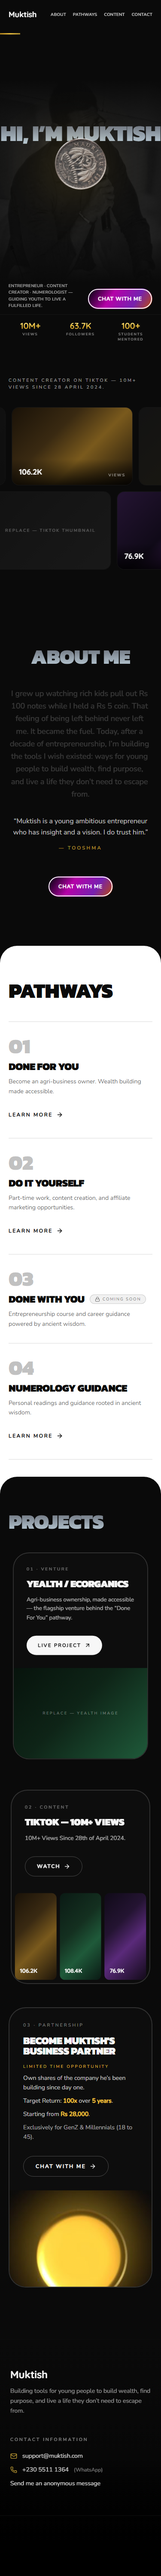
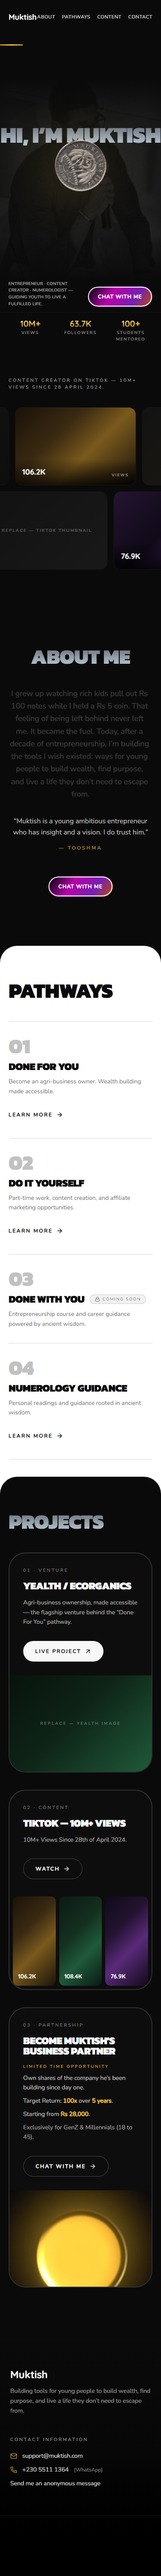
Review cycle 1 fixes: magnet rewrite, char-index purity, mobile scale, a11y, perf
- Magnet: useSyncExternalStore pointer probe, rAF-throttled direct DOM writes,
  no per-event React state (fixes lint + perf); ref snapshot in cleanup
- About: pure word-start derivation (React Compiler lint)
- Projects: depth scale via static md: classes (no more 94% card on mobile)
- Hero: nav 11px + py-3 tap areas, stat labels 9.6px, fetchPriority on LCP imgs
- Marquee: layout metrics cached, remeasured on resize only
- ContactButton: dead focus-visible:outline-none removed, gold focus ring

diff --git a/components/redesign/magnet.tsx b/components/redesign/magnet.tsx
@@ -3,10 +3,27 @@
 import {
   useEffect,
   useRef,
-  useState,
+  useSyncExternalStore,
   type ReactNode,
 } from "react";
 import { useReducedMotionSafe as useReducedMotion } from "@/lib/use-reduced-motion-safe";
+
+const FINE_QUERY = "(hover: hover) and (pointer: fine)";
+
+function subscribeFine(callback: () => void) {
+  const mql = window.matchMedia(FINE_QUERY);
+  mql.addEventListener("change", callback);
+  return () => mql.removeEventListener("change", callback);
+}
+
+/** Hydration-safe "desktop pointer" probe (server snapshot: false). */
+function useFinePointer(): boolean {
+  return useSyncExternalStore(
+    subscribeFine,
+    () => window.matchMedia(FINE_QUERY).matches,
+    () => false,
+  );
+}
 
 type MagnetProps = {
   children: ReactNode;
@@ -22,7 +39,11 @@ type MagnetProps = {
  * the inner wrapper translates toward the cursor by distance/strength with a
  * quick ease-out; when the cursor leaves it springs back with a longer
  * ease-in-out. Desktop-pointer only — on touch devices (or reduced motion)
- * it renders a gentle idle float instead. Transform-only, willChange hinted.
+ * it renders a gentle idle float instead.
+ *
+ * Perf: mousemove only schedules a rAF; the frame callback does one
+ * getBoundingClientRect and writes transform straight to the DOM node —
+ * zero React re-renders while tracking.
  */
 export function Magnet({
   children,
@@ -31,47 +52,62 @@ export function Magnet({
   className,
 }: MagnetProps) {
   const reduced = useReducedMotion();
+  const fine = useFinePointer();
   const hostRef = useRef<HTMLDivElement | null>(null);
-  const [offset, setOffset] = useState({ x: 0, y: 0 });
-  const [active, setActive] = useState(false);
-  const [fine, setFine] = useState(false);
-
-  useEffect(() => {
-    setFine(window.matchMedia("(hover: hover) and (pointer: fine)").matches);
-  }, []);
+  const innerRef = useRef<HTMLDivElement | null>(null);
 
   const enabled = fine && !reduced;
 
   useEffect(() => {
     if (!enabled) return;
 
-    const onMove = (e: MouseEvent) => {
-      const el = hostRef.current;
-      if (!el) return;
-      const r = el.getBoundingClientRect();
+    let raf = 0;
+    let lastX = 0;
+    let lastY = 0;
+    let active = false;
+
+    const frame = () => {
+      raf = 0;
+      const host = hostRef.current;
+      const inner = innerRef.current;
+      if (!host || !inner) return;
+      const r = host.getBoundingClientRect();
       const inZone =
-        e.clientX > r.left - padding &&
-        e.clientX < r.right + padding &&
-        e.clientY > r.top - padding &&
-        e.clientY < r.bottom + padding;
+        lastX > r.left - padding &&
+        lastX < r.right + padding &&
+        lastY > r.top - padding &&
+        lastY < r.bottom + padding;
 
       if (inZone) {
         const cx = r.left + r.width / 2;
         const cy = r.top + r.height / 2;
-        setOffset({
-          x: (e.clientX - cx) / strength,
-          y: (e.clientY - cy) / strength,
-        });
-        setActive(true);
+        inner.style.transition = "transform 0.3s ease-out";
+        inner.style.transform = `translate3d(${(lastX - cx) / strength}px, ${(lastY - cy) / strength}px, 0)`;
+        active = true;
       } else if (active) {
-        setOffset({ x: 0, y: 0 });
-        setActive(false);
+        active = false;
+        inner.style.transition = "transform 0.6s ease-in-out";
+        inner.style.transform = "translate3d(0, 0, 0)";
       }
     };
 
+    const onMove = (e: MouseEvent) => {
+      lastX = e.clientX;
+      lastY = e.clientY;
+      if (!raf) raf = requestAnimationFrame(frame);
+    };
+
+    // Snapshot the node for cleanup — the ref may change before cleanup runs.
+    const innerAtSetup = innerRef.current;
     window.addEventListener("mousemove", onMove, { passive: true });
-    return () => window.removeEventListener("mousemove", onMove);
-  }, [enabled, padding, strength, active]);
+    return () => {
+      window.removeEventListener("mousemove", onMove);
+      if (raf) cancelAnimationFrame(raf);
+      if (innerAtSetup) {
+        innerAtSetup.style.transform = "translate3d(0, 0, 0)";
+      }
+    };
+  }, [enabled, padding, strength]);
 
   if (!enabled) {
     // Touch / reduced-motion: gentle idle float (pure CSS, transform-only).
@@ -85,15 +121,7 @@ export function Magnet({
 
   return (
     <div ref={hostRef} className={className}>
-      <div
-        style={{
-          transform: `translate3d(${offset.x}px, ${offset.y}px, 0)`,
-          transition: active
-            ? "transform 0.3s ease-out"
-            : "transform 0.6s ease-in-out",
-          willChange: "transform",
-        }}
-      >
+      <div ref={innerRef} style={{ willChange: "transform" }}>
         {children}
       </div>
     </div>

diff --git a/components/redesign/about.tsx b/components/redesign/about.tsx
@@ -65,9 +65,18 @@ function CharacterReveal({ text }: { text: string }) {
     );
   }
 
-  const words = text.split(" ");
   const total = text.length;
-  let charIndex = 0;
+  // Pure derivation of each word's absolute start index (word starts include
+  // the +1 for the space that follows the previous word).
+  const words = text.split(" ").reduce<{ word: string; start: number }[]>(
+    (acc, word) => {
+      const prev = acc[acc.length - 1];
+      const start = prev ? prev.start + prev.word.length + 1 : 0;
+      acc.push({ word, start });
+      return acc;
+    },
+    [],
+  );
 
   return (
     <p
@@ -78,26 +87,22 @@ function CharacterReveal({ text }: { text: string }) {
       <span className="invisible">{text}</span>
       {/* Animated copy — absolutely stacked over the placeholder. */}
       <span className="absolute inset-0 text-ink" aria-hidden>
-        {words.map((word, wi) => {
-          const start = charIndex;
-          charIndex += word.length + 1; // +1 for the following space
-          return (
-            <span key={wi} className="inline-block whitespace-pre">
-              {word.split("").map((c, ci) => {
-                const abs = start + ci;
-                return (
-                  <Char
-                    key={ci}
-                    char={c}
-                    progress={scrollYProgress}
-                    range={[abs / total, Math.min(1, (abs + 1) / total)]}
-                  />
-                );
-              })}
-              {wi < words.length - 1 ? " " : ""}
-            </span>
-          );
-        })}
+        {words.map(({ word, start }, wi) => (
+          <span key={wi} className="inline-block whitespace-pre">
+            {word.split("").map((c, ci) => {
+              const abs = start + ci;
+              return (
+                <Char
+                  key={ci}
+                  char={c}
+                  progress={scrollYProgress}
+                  range={[abs / total, Math.min(1, (abs + 1) / total)]}
+                />
+              );
+            })}
+            {wi < words.length - 1 ? " " : ""}
+          </span>
+        ))}
       </span>
     </p>
   );

diff --git a/components/redesign/marquee.tsx b/components/redesign/marquee.tsx
@@ -109,14 +109,24 @@ export function Marquee() {
     if (!section || !r1 || !r2) return;
 
     let raf = 0;
+    // Layout metrics are cached and refreshed only on resize, so the scroll
+    // frame is write-only (no forced layout per frame).
+    let sectionTop = 0;
+    let vh = 0;
+    let w1 = 0;
+    let w2 = 0;
+
+    const measure = () => {
+      sectionTop = section.offsetTop;
+      vh = window.innerHeight;
+      w1 = r1.scrollWidth / 3;
+      w2 = r2.scrollWidth / 3;
+    };
+
     const update = () => {
       raf = 0;
-      const sectionTop = section.offsetTop;
-      const offset =
-        (window.scrollY - sectionTop + window.innerHeight) * 0.3;
-
-      const w1 = r1.scrollWidth / 3;
-      const w2 = r2.scrollWidth / 3;
+      if (!w1 || !w2) return;
+      const offset = (window.scrollY - sectionTop + vh) * 0.3;
       // Wrap into [-setWidth, 0) so the tripled strip always covers the view.
       const x1 = -w1 + (((offset % w1) + w1) % w1); // drifts right
       const x2 = -(((offset % w2) + w2) % w2); // drifts left
@@ -127,13 +137,18 @@ export function Marquee() {
     const onScroll = () => {
       if (!raf) raf = requestAnimationFrame(update);
     };
+    const onResize = () => {
+      measure();
+      onScroll();
+    };
 
+    measure();
     update();
     window.addEventListener("scroll", onScroll, { passive: true });
-    window.addEventListener("resize", onScroll, { passive: true });
+    window.addEventListener("resize", onResize, { passive: true });
     return () => {
       window.removeEventListener("scroll", onScroll);
-      window.removeEventListener("resize", onScroll);
+      window.removeEventListener("resize", onResize);
       if (raf) cancelAnimationFrame(raf);
     };
   }, [reduced]);

diff --git a/components/redesign/hero.tsx b/components/redesign/hero.tsx
@@ -44,7 +44,7 @@ export function RedesignHero() {
               <a
                 key={l.label}
                 href={l.href}
-                className="text-[0.6rem] uppercase tracking-wider text-ink/90 transition-opacity hover:opacity-70 sm:text-xs"
+                className="py-3 text-[0.7rem] uppercase tracking-wider text-ink/90 transition-opacity hover:opacity-70 sm:text-xs"
               >
                 {l.label}
               </a>
@@ -67,6 +67,7 @@ export function RedesignHero() {
             <img
               src={FOUNDER_IMG}
               alt=""
+              fetchPriority="high"
               className="h-full w-auto max-w-none object-contain opacity-25"
               style={{ filter: "grayscale(1) brightness(0.55) contrast(1.1)" }}
             />
@@ -96,6 +97,7 @@ export function RedesignHero() {
             <img
               src={COIN_IMG}
               alt="Mauritius Rs 5 coin"
+              fetchPriority="high"
               className="coin-turn w-[clamp(120px,20vw,260px)] drop-shadow-[0_20px_60px_rgba(245,200,66,0.25)]"
             />
           </Magnet>
@@ -130,7 +132,7 @@ export function RedesignHero() {
                   duration={1.8}
                 />
               </span>
-              <span className="text-[0.5rem] uppercase tracking-[0.25em] text-ink/55 sm:text-[0.65rem]">
+              <span className="text-[0.6rem] uppercase tracking-[0.2em] text-ink/55 sm:text-[0.65rem]">
                 {s.label}
               </span>
             </div>

diff --git a/components/redesign/projects.tsx b/components/redesign/projects.tsx
@@ -145,7 +145,9 @@ const projects: Project[] = [
   },
 ];
 
-const TOTAL = projects.length;
+// Static per-index depth classes so Tailwind can compile them (scale =
+// 1-(TOTAL-1-i)*0.03) — applied only at md+, where the sticky stack exists.
+const STACK_SCALE = ["md:scale-[0.94]", "md:scale-[0.97]", "md:scale-100"];
 
 /**
  * Sticky-stacking project cards: each card sticks below the one before it
@@ -166,12 +168,8 @@ export function Projects() {
           {projects.map((p, i) => (
             <div key={p.number} className="h-auto md:h-[85vh]">
               <div
-                className="md:sticky"
-                style={{
-                  top: `calc(6rem + ${i * 28}px)`,
-                  transform: `scale(${1 - (TOTAL - 1 - i) * 0.03})`,
-                  transformOrigin: "center top",
-                }}
+                className={`origin-top md:sticky ${STACK_SCALE[i] ?? "md:scale-100"}`}
+                style={{ top: `calc(6rem + ${i * 28}px)` }}
               >
                 <div className="mb-10 flex flex-col overflow-hidden rounded-[40px] border-2 border-white/15 bg-[#0d0d0d] sm:rounded-[50px] md:mb-0 md:h-[70vh] md:flex-row md:rounded-[60px]">
                   {/* Copy column */}

diff --git a/components/redesign/contact-button.tsx b/components/redesign/contact-button.tsx
@@ -18,7 +18,7 @@ export function ContactButton({
   return (
     <a
       href={href}
-      className={`inline-flex h-12 min-h-[44px] items-center justify-center whitespace-nowrap rounded-full px-6 text-xs font-semibold uppercase tracking-widest text-white transition-transform duration-200 ease-out hover:scale-[1.04] active:scale-[0.98] focus-visible:outline-none focus-visible:ring-2 focus-visible:ring-white/80 sm:px-8 ${className}`}
+      className={`inline-flex h-12 min-h-[44px] items-center justify-center whitespace-nowrap rounded-full px-6 text-xs font-semibold uppercase tracking-widest text-white transition-transform duration-200 ease-out hover:scale-[1.04] active:scale-[0.98] focus-visible:ring-4 focus-visible:ring-gold/80 sm:px-8 ${className}`}
       style={{
         background:
           "linear-gradient(123deg, #18011F 7%, #B600A8 37%, #7621B0 72%, #BE4C00 100%)",

diff --git a/BUILD-REPORT.md b/BUILD-REPORT.md
@@ -1,0 +1,61 @@
+# BUILD-REPORT — redesign-motion (overnight autonomous run, 2026-07-02)
+
+Branch: `redesign-motion` (from `main`). No pushes, no deploys, `main` untouched, nothing under `public/` modified or deleted.
+
+## What was built
+
+Landing page rebuilt with the premium-portfolio motion language. Page order: **Hero → Marquee → About → Pathways → Projects → Footer** (built in priority order Hero, Pathways, Projects, Marquee, About, Footer — one green `npm run build` + commit per section).
+
+| Section | File | Motion |
+|---|---|---|
+| Hero | `components/redesign/hero.tsx` | FadeIn sequence (nav 0 / h1 0.15 / tagline 0.35 / CTA 0.5 / magnet 0.6, ease [0.25,0.1,0.25,1]), magnet coin (padding 150, strength 3, 0.3s ease-out in / 0.6s ease-in-out out), count-up stats |
+| Marquee | `components/redesign/marquee.tsx` | Scroll-driven double row, `offset=(scrollY−sectionTop+innerHeight)*0.3`, row1 right / row2 left, tiles tripled + modulo wrap, rAF-throttled passive listener, willChange |
+| About | `components/redesign/about.tsx` | Character-by-character reveal (opacity 0.2→1, `useScroll` offset ['start 0.8','end 0.2'], invisible placeholder + absolute aria-hidden animated layer), 4 corner decor x ±80 / 0.9s / staggered |
+| Pathways | `components/redesign/pathways.tsx` | White #FFF rounded-t-[40/50/60px], numbered 01–04, 1px `rgba(10,10,10,0.15)` separators, staggered FadeIn i*0.1 |
+| Projects | `components/redesign/projects.tsx` | Sticky-stacking cards (sticky `top-24 + i*28px`, scale `1−(total−1−i)*0.03`, border-2, rounded-[40/50/60px]), dark rounded-t overlap over white section |
+| Footer | `components/site-footer.tsx` (edited) | Kept verbatim; added `id="contact"` + anonymous-message link |
+
+Primitives: `components/redesign/fade-in.tsx`, `magnet.tsx`, `contact-button.tsx`; `lib/use-reduced-motion-safe.ts`. Kanit (300–900) loaded via `next/font` for display headings only; body stays Nunito. `.display`, `.steel-gradient-text`, `.coin-turn`, `.idle-float` added to `globals.css`. Main wrapper `overflow-x-clip`. All animation transform/opacity only; no maskImage anywhere (photo edges dissolved with overlay gradients instead).
+
+## Content mapping (all real copy kept verbatim)
+
+- Story, TOOSHMA testimonial → About. Pathways 01–03 → old HelpCards copy. Partnership card → old PartnerSection copy including badge and "Own shares…" line and the FSC-sensitive block, character-for-character. TikTok caption + view counts → Marquee/Projects. Footer contact block unchanged.
+- Old sections removed from the page (content preserved in new homes): Hero/StatsBand, HelpCards, TikTokSection, StorySection, Testimonials, PartnerSection, Ambience, PageBubbles. Files kept on disk for easy revert.
+
+## Assets: found vs placeholder
+
+- **Coin**: `public/coin/rs5-back.png` (real) — rotating image inside the magnet.
+- **Founder**: spec named `founder-muktish.jpeg` (absent); used existing `public/images/muktish.png`.
+- **About corner decor**: real coin imagery (`coin/rs5-back.png`, `textures/rs5-front.png`, `textures/rs5-back.png`, `coin/coin-fallback.jpg`) — no REPLACE-DECOR placeholders needed.
+- **Partnership card media**: `public/coin/coin-fallback.jpg` (real).
+- **TikTok thumbnails**: none exist in `public/` → marquee uses the current site's gradient tiles + "REPLACE — TikTok thumbnail" placeholders + 10M+ branding tiles (14 tiles). Yealth card media is a labelled REPLACE block.
+
+## ⚠ Flagged for your veto
+
+1. **Pathway 04 "Numerology Guidance — Personal readings and guidance rooted in ancient wisdom."** — the only newly-written copy on the page (spec-supplied). Delete the item in `pathways.tsx` if unwanted.
+2. **Stats say "63.7K Followers"** per the mission spec, but the old StatsBand rendered suffix **"L"** (63.7L). Spec's explicit figure won; flip `suffix` in `redesign/hero.tsx` if L was intentional.
+3. **TikTok "Watch" button → `#`** — no real TikTok URL exists anywhere in the codebase (all socials are `#` TODOs). Same for social icons, Terms, Learn-more targets, anonymous-message link: all kept as `#` exactly as on the current site.
+4. **SiteHeader removed from layout** — the hero now owns the nav (ABOUT/PATHWAYS/CONTENT/CONTACT + wordmark). The header's socials remain in the footer; its Chat CTA lives in the hero + FloatingCTA.
+5. **SplineSection (this session's earlier WIP) dropped from the page** — not part of the current-site content; component file kept.
+6. **Coin = image, not the R3F scene** — the existing three.js coin is a full-viewport scene with DOF/bloom tuned as a hero backdrop; embedding it in a small magnet target would be heavy and mis-framed. Rotating `rs5-back.png` used instead (spec option 2).
+
+## Bugs found & fixed during QA
+
+- **React #418 hydration crash under prefers-reduced-motion** (pre-existing pattern, exposed by QA): `motion/react`'s `useReducedMotion` reads matchMedia synchronously, so the first client render disagreed with SSR HTML. Fixed with `lib/use-reduced-motion-safe.ts` (`useSyncExternalStore`, server snapshot `false`) swapped into `motion-primitives.tsx` and all redesign components; `AnimatedCounter` now always seeds `0`.
+- Founder photo hard rectangle edges → overlay-gradient edge dissolve (mask-free).
+- ContactButton wrapped to 3 lines at 375px → `whitespace-nowrap`.
+
+## QA summary
+
+- `npm run build`: ✅ zero errors (run after every section + after every fix).
+- Playwright harness `qa-screens/qa.mjs` at 375/390/1440/1920: ✅ no horizontal overflow, hero + stats fit above the fold at 375, all anchors resolve, WhatsApp links well-formed (4× `wa.me/23055111364`), no console/page errors, reduced-motion emulation shows all copy at full opacity (screenshots in `qa-screens/`, incl. `reduced-motion-1440.png`).
+- Full-page screenshots note: animated (non-reduced) fullPage captures needed a pre-scroll pass so `whileInView` entrances fire — that's a screenshot-tooling artifact, not a site bug.
+- qa-tester agent: **PASS** (cycle 1) — build clean; harness clean; nav anchors scroll to real sections; 5× wa.me + mailto + yealth.mu CTAs present; all 14 required copy strings verbatim; Pathways heading rgb(10,10,10) on rgb(255,255,255); 3 sticky cards inside the 375px viewport; zero console/page errors at 375+1440, normal and reduced-motion.
+- code-reviewer agent: (appended after run)
+
+## Suggested polish (not done)
+
+- Real TikTok thumbnails + profile URL; real Yealth card photo; real social URLs.
+- Consider `IntersectionObserver`-gating the marquee updates entirely offscreen.
+- Kanit 300–900 is 7 weights; trimming to 400/700/900 would cut ~100KB of font payload.
+- Delete unused legacy components (`hero.tsx`, `hero-scene.tsx`, `help-cards.tsx`, …) once the redesign is accepted, and drop `three`/`@react-three/*` from deps for a much lighter bundle.
